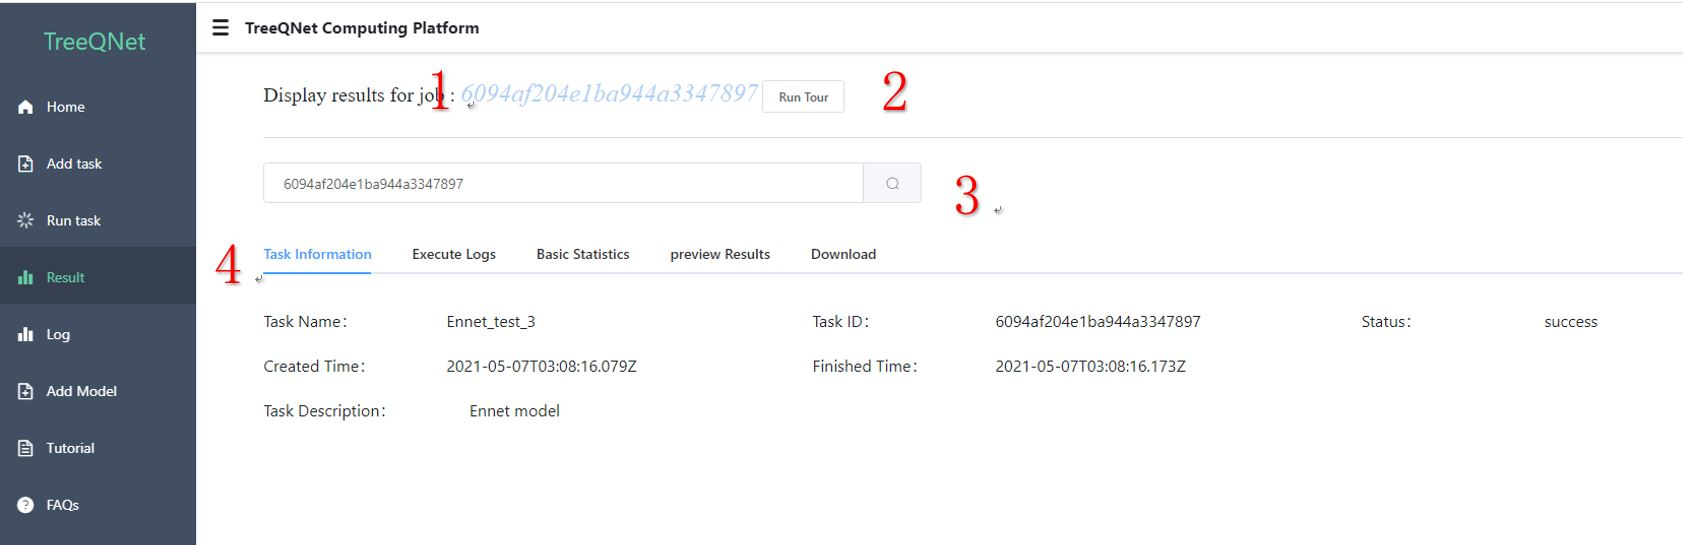
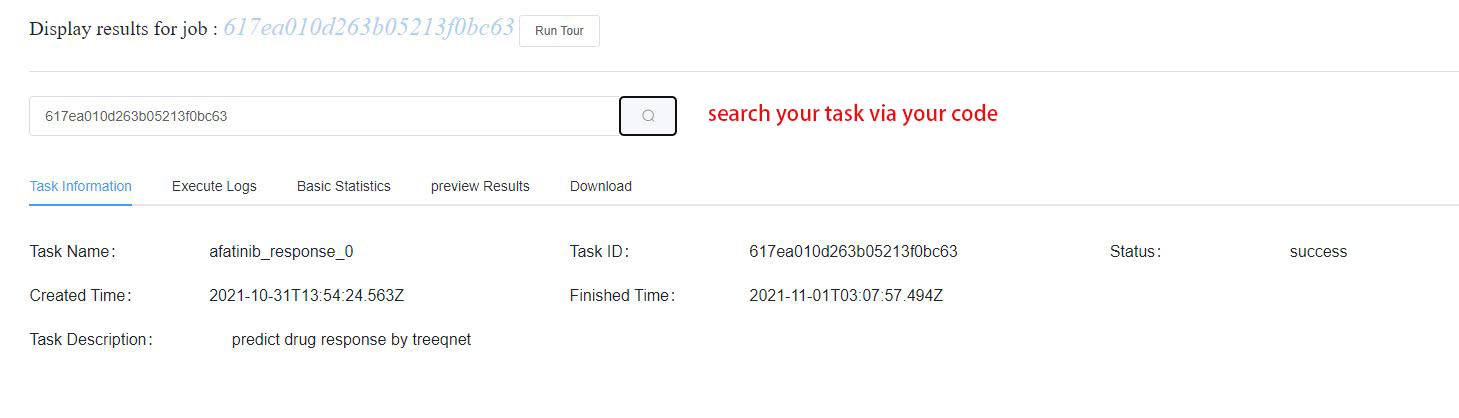
new

diff --git a/src/pages/tutorial/index/index.vue b/src/pages/tutorial/index/index.vue
@@ -22,15 +22,12 @@
       <h2 id="welcome"> Welcome to TreeQNet</h2>
       <p> </p>
       
-      <p>TreeQNet innovatively uses the proteome and phosphoproteome
-         data of tumor tissues and normal tissues of cancer patients to construct tissue-specific kinase-substrate 
-         network , and then uses the elastic regression model to predict so as to realize the prediction of drug sensitivity
-          of patients.  Based on this webserver,
-        You can:</p>
+      <p>The project innovatively uses the proteomic and phosphorylated proteomic information of patients with 
+        colorectal cancer to construct the side expression value, and then uses the method of elastic network selection to extract the kinase-substrate 
+        with the best classification ability as the side marker and construct the patient Prediction model of susceptibility to Afatinib, Regorafenib and Gefitinib.
+        Based on this webserver, You can:</p>
       <ul class='tutorial-ul'>
-        <li>construct tissue-specific kinase-substrate 
-         network using proteome and phosphoproteome data. </li>
-        <li>Predict drug sensitivity of patients. </li>
+        <li>upload proteome and phosphoproteome data, Predict the sensitivity of patients to Afatinib, Regorafenib and Gefitinib.</li>
       </ul>
       
       <h3 id="howtouse"> How to use</h3>
@@ -44,122 +41,49 @@
         to run our example directly.</p>
       <h3 id="ioformat">Input and output format</h3>
 
-      <p> 1) Construction of kinase-substrate network</p>
-      <img src="../img/input1.jpg" class="img-rounded" width='1000' height='500'>
-      <p> 1. First enter the name of your task.</p>
-      <p> 2. Then select the Edge model for your task. The execution of the Edge model requires three input data:</p>
+      <p>1. Select model and the drug category you want to predict. Currently, only the prediction of Afatinib, Gefitinib, and Regorafenib are supported.</p>
+      <img src="../img/model.jpg" class="img-rounded" width='1000' height='500'>
+      <p> Fill in the drug category you want to predict in drug_name, 1 represents Afatinib, 2 represents Gefitinib, 3 represents Regorafenib and the default is 1.</p>
+
+      <p>2. Enter your task name.</p>
+
+      <p>3. Enter your task description information.</p>
+
+      <p> Upload protein and phosphorylation site files (must strictly follow the specified format of the instruction document)</p>
+      <img src="../img/upload.jpg" class="img-rounded" width='1000' height='500'>
       <ul class='tutorial-ul'>
-        <li>ks_sample.csv: Kinase substrate information for data to be calculated</li>
-        <li>KSNode.csv: Protein expression value and phosphorylation site expression value of cancer tissue </li>
-        <li>Labl.csv: The division of training set and test set samples </li>
+        <li>pro.csv</li>
+        <li>pho.csv</li>
       </ul>
+      <p>pro.csv:The protein expression value data of the patient's tumor tissue (any tumor is acceptable) to be predicted</p>
+      <img src="../img/pro.jpg" class="img-rounded" width='1000' height='300'>
+      <p>The first column is the protein gene name of the patient to be predicted (no duplicate values), the second column is the protein 
+        expression value of the patient to be predicted (after normalization, no missing values), the column names 
+        are [ID] and [patient ID ( You can use numbers or letters to number freely, and it must be consistent with the number in pho.csv)], the uploaded file must be in csv format.</p>
+      
+      <p>pho.csv:The expression data of phosphorylation site in tumor tissue (any tumor is acceptable) to be predicted</p>
+      <img src="../img/pho.jpg" class="img-rounded" width='1000' height='300'>
+      <p>The first column is the phosphorylation site ID of the patient to be predicted (no repeated values), the format is [gene name]_[phosphorylation site category][phosphorylation site position], 
+        the second column is the phosphorylation site of the patient to be predicted The expression value of the chemical site (after standardization, no missing values), 
+        the column names are [ID] and [patient ID (free numbers or letters can be used, must be consistent with the number in pro.csv)], the uploaded file must be csv format.</p>
+
       <p>output data:</p>
       <ul class='tutorial-ul'>
-        <li>edge_data.xls: Kinase-substrate edge features</li>
+        <li>drug_response.pdf: predicted values of sample response to Afatinib, gefitinib or regorafenib</li>
+        <li>pheatmap.pdf: pheatmap</li>
       </ul>
 
-      <p>3. Enter your task description information.</p>
-
-      <img src="../img/input2.jpg" class="img-rounded" width='1000' height='400'>
-      <p> 4. Select the required input data.</p>
+      <img src="../img/run_task.jpg" class="img-rounded" width='1000' height='550'>      
       <p> 5. Upload the input data.</p>
-      <p> 6. Click "Run Task" to execute the task.</p>
-
-      <p style="font-weight:bold"> Input Format</p>
-
-      <p>ks_samples.csv:</p>
-      <img src="../img/kssample.jpg" class="img-rounded" width='1000' height='300'>
-      <ul class='tutorial-ul'>
-        <li>Protein: protein name</li>
-        <li>Gene: Edit protein gene</li>
-        <li>Peptide: peptide</li>
-        <li>Residue.Both: Phosphorylation sites of proteins</li>
-        <li>P: Significant difference P-value</li>
-        <li>FC: fold change</li>
-      </ul>
-
-      <p>KSNode.csv:</p>
-      <img src="../img/ksnode.jpg" class="img-rounded" width='1000' height='400'>
-      <ul class='tutorial-ul'>
-        <li>Row name: Kinase_Substrate</li>
-        <li>Column name: sample name</li>
-        <li>Features value: the kinase-substrate test expression value of the sample</li>
-      </ul>
-
-      <p>labl.csv:</p>
-      <img src="../img/labl.jpg" class="img-rounded" width='500' height='300'>
-      <ul class='tutorial-ul'>
-        <li>First column: sample name</li>
-        <li>The second column: 1 represents the training set, 2 represents the testing set</li>
-      </ul>
-
-      <p style="font-weight:bold"> Onput Format</p>
-
-      <p>edge_data.xls：</p>
-      <img src="../img/edge.jpg" class="img-rounded" width='1000' height='400'>
-      <ul class='tutorial-ul'>
-        <li>Row name: Kinase_Substrate_Phosphorylation Site_Testing set/Training Set</li>
-        <li>Column name: sample name</li>
-        <li>Features value: edge features of the kinase-substrate network</li>
-      </ul>
-
-      <p> 1) Predict the patient's sensitivity to drugs</p>
-      <img src="../img/input3.jpg" class="img-rounded" width='1000' height='800'>
-      <p> 1. First enter the name of your task.</p>
-      <p> 2. Then select the Ennet model for your task. The execution of the Ennet model requires eighy input data:</p>
-      <ul class='tutorial-ul'>
-        <li>dbdrug, dbdrug1, dbdrug2, dbdrug3: the observed value of the sample's response to the drug</li>
-        <li>edata1, edata2, edata3, edata11: edge features of kinase substrate network </li>
-      </ul>
-      <p>3. Enter your task description information.</p>
-
-      <img src="../img/input4.jpg" class="img-rounded" width='1000' height='550'>
-      <p> 4. Select the required input data.</p>
-      <p> 5. Upload the input data.</p>
-      <p> 6. Click "Run Task" to execute the task.</p>
-
-      <p style="font-weight:bold"> Input Format</p>
-
-      <p>dbdrug1.csv:</p>
-      <img src="../img/dbdrug1.jpg" class="img-rounded" width='500' height='250'>
-      <ul class='tutorial-ul'>
-        <li>Row name: sample name</li>
-        <li>Column name: drug name</li>
-        <li>Features value: the observed value of the sample's reaction to the drug</li>
-      </ul>
-      <p>dbdrug2.csv: The data format is consistent with dbdrug1.csv and is classified as a training set sample</p>
-      <p>dbdrug3.csv: The data format is consistent with dbdrug1.csv, which is classified as a sample of the testing set</p>
-      <p>dbdrug.csv: The data format is consistent with dbdrug1.csv</p>
-
-      <p>edata1.csv: Transposed by edge_data.xls</p>
-      <img src="../img/edata.jpg" class="img-rounded" width='1000' height='500'>
-      <ul class='tutorial-ul'>
-        <li>Row name: sample name</li>
-        <li>Column name: Kinase_Substrate_Phosphorylation Site_Testing set/Training Set</li>
-        <li>Features value: edge features of the kinase-substrate network</li>
-      </ul>
-      <p>edata2.csv: The data format is consistent with edata1.csv and is classified as a training set sample</p>
-      <p>edata3.csv: The data format is consistent with edata1.csv, which is classified as a sample of the testing set</p>
-      <p>edata11.csv: The data format is consistent with edata1.csv</p>
-
-
-      <p style="font-weight:bold"> Onput Format</p>
-
-      <p>Afatinib of C486</p>
-      <img src="../img/afa.jpg" class="img-rounded" width='800' height='700'>
-      <p>Comparison of observed and predicted values of sample response to Afatinib, gefitinib and regorafenib</p>
-
+      <p style="font-weight: bold"> 6. Click "Run Task" to execute the task. Depending 
+        on the amount of data, the whole process takes about 20 minutes or more</p>
  
 
       <h3 id="log"> Log</h3>
       <img src="../img/log.jpg" class="img-rounded" width='1000' height='250'>
       <p>After clicking the above "Run Task" button, it will automatically jump to the "Log" tab, where you can see the task id and runtime information. Depending 
         on the amount of data, 
-        the task running time will vary. You can save the task id, and after the task is completed, you can view and download the result on the "Result" interface.</p>
-
-      
-      
-
+        the whole process takes about 20 minutes or more. You can save the task id, and after the task is completed, you can view and download the result on the "Result" interface.</p>
 
        <h3 id="result"> Result</h3>
        <img src="../img/result1.jpg" class="img-rounded" width='700' height='300'>
@@ -174,8 +98,6 @@
        <img src="../img/result3.jpg" class="img-rounded" width='800' height='400'>
        <p> 6. Download results</p>
 
-
- 
        
     </div>
   </div>

diff --git a/src/pages/layout/layout.vue b/src/pages/layout/layout.vue
@@ -88,11 +88,11 @@
             title: 'Add task',
             icon: 'el-icon-document-add'
           },
-          {
-            path: '/tasks/delete',
-            title: 'Run task',
-            icon: 'el-icon-loading'
-          },
+          //{
+          //  path: '/tasks/delete',
+          //  title: 'Run task',
+          //  icon: 'el-icon-loading'
+          //},
           {
             path: '/tasks/result',
             title: 'Result',
@@ -104,11 +104,11 @@
             icon: 'el-icon-s-data'
           },
 
-          {
-             path: '/models/insert',
-             title: 'Add Model',
-             icon: 'el-icon-document-add'
-          },
+          //{
+          //   path: '/models/insert',
+          //   title: 'Add Model',
+          //   icon: 'el-icon-document-add'
+          //},
 
 
           {

diff --git a/src/pages/tasks/result.vue b/src/pages/tasks/result.vue
@@ -67,11 +67,10 @@
         <el-tab-pane label="Execute Logs" name="second" >
           <span  id="lis"></span>
         </el-tab-pane>
-        <el-tab-pane label="Basic Statistics" name="third" >Statics</el-tab-pane>
-        <el-tab-pane label="preview Results" name="fourth" >
+        <el-tab-pane label="preview Results" name="third" >
          <preview :info="items"></preview>
         </el-tab-pane>
-        <el-tab-pane label="Download" name="fifth">
+        <el-tab-pane label="Download" name="fourth">
           <el-button  @click="download1(items['outparams'])" type="primary" icon="el-icon-download">Download Results</el-button>
         </el-tab-pane>
       </el-tabs>

diff --git a/src/pages/tasks/insert.vue b/src/pages/tasks/insert.vue
@@ -327,7 +327,7 @@ export default {
                     {
                         path: 'log',
                         query: {
-                           name: 'pcatest_0'
+                           name: 'afatinib_response_0'
                         }
                     }
         )
